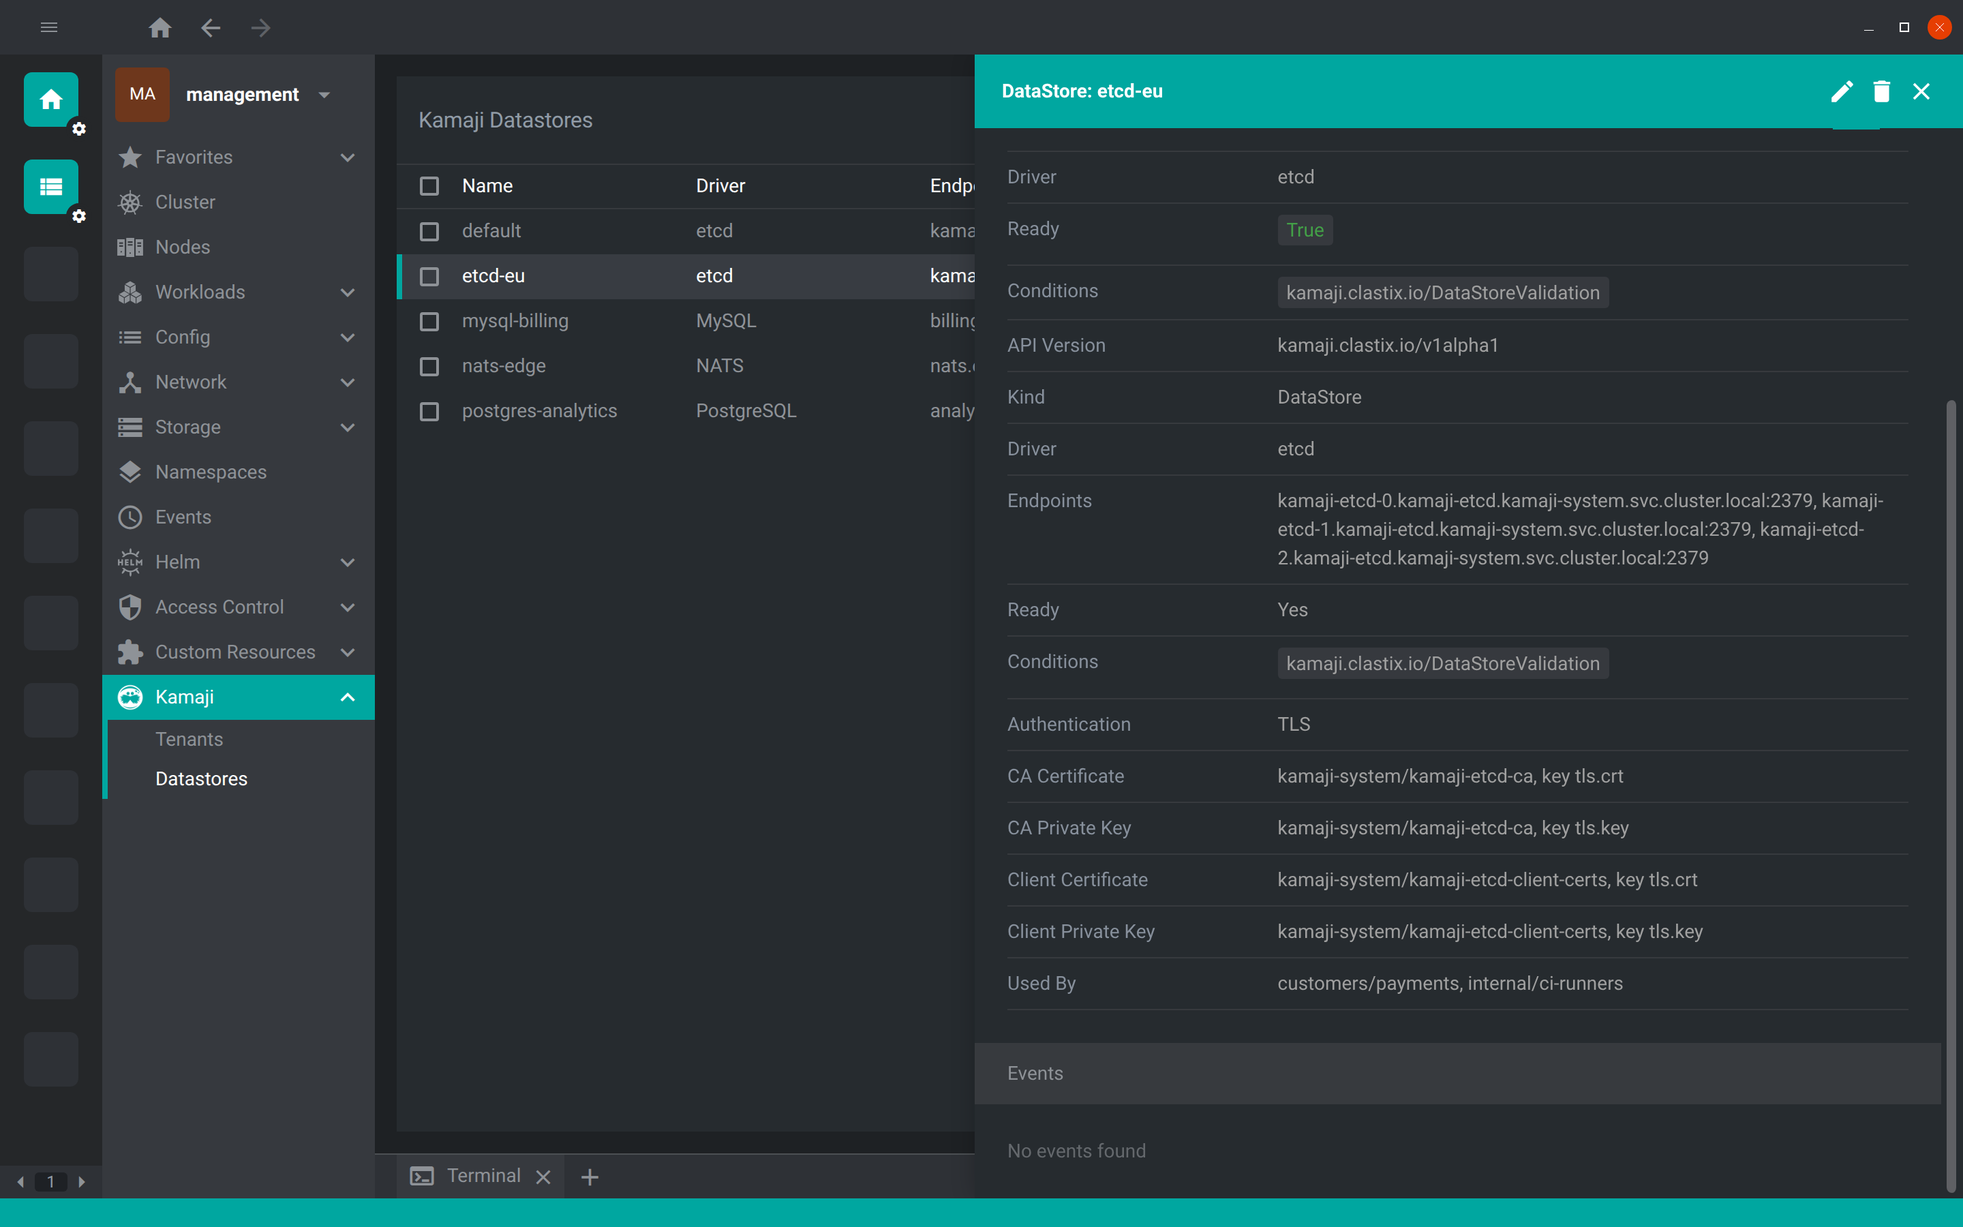
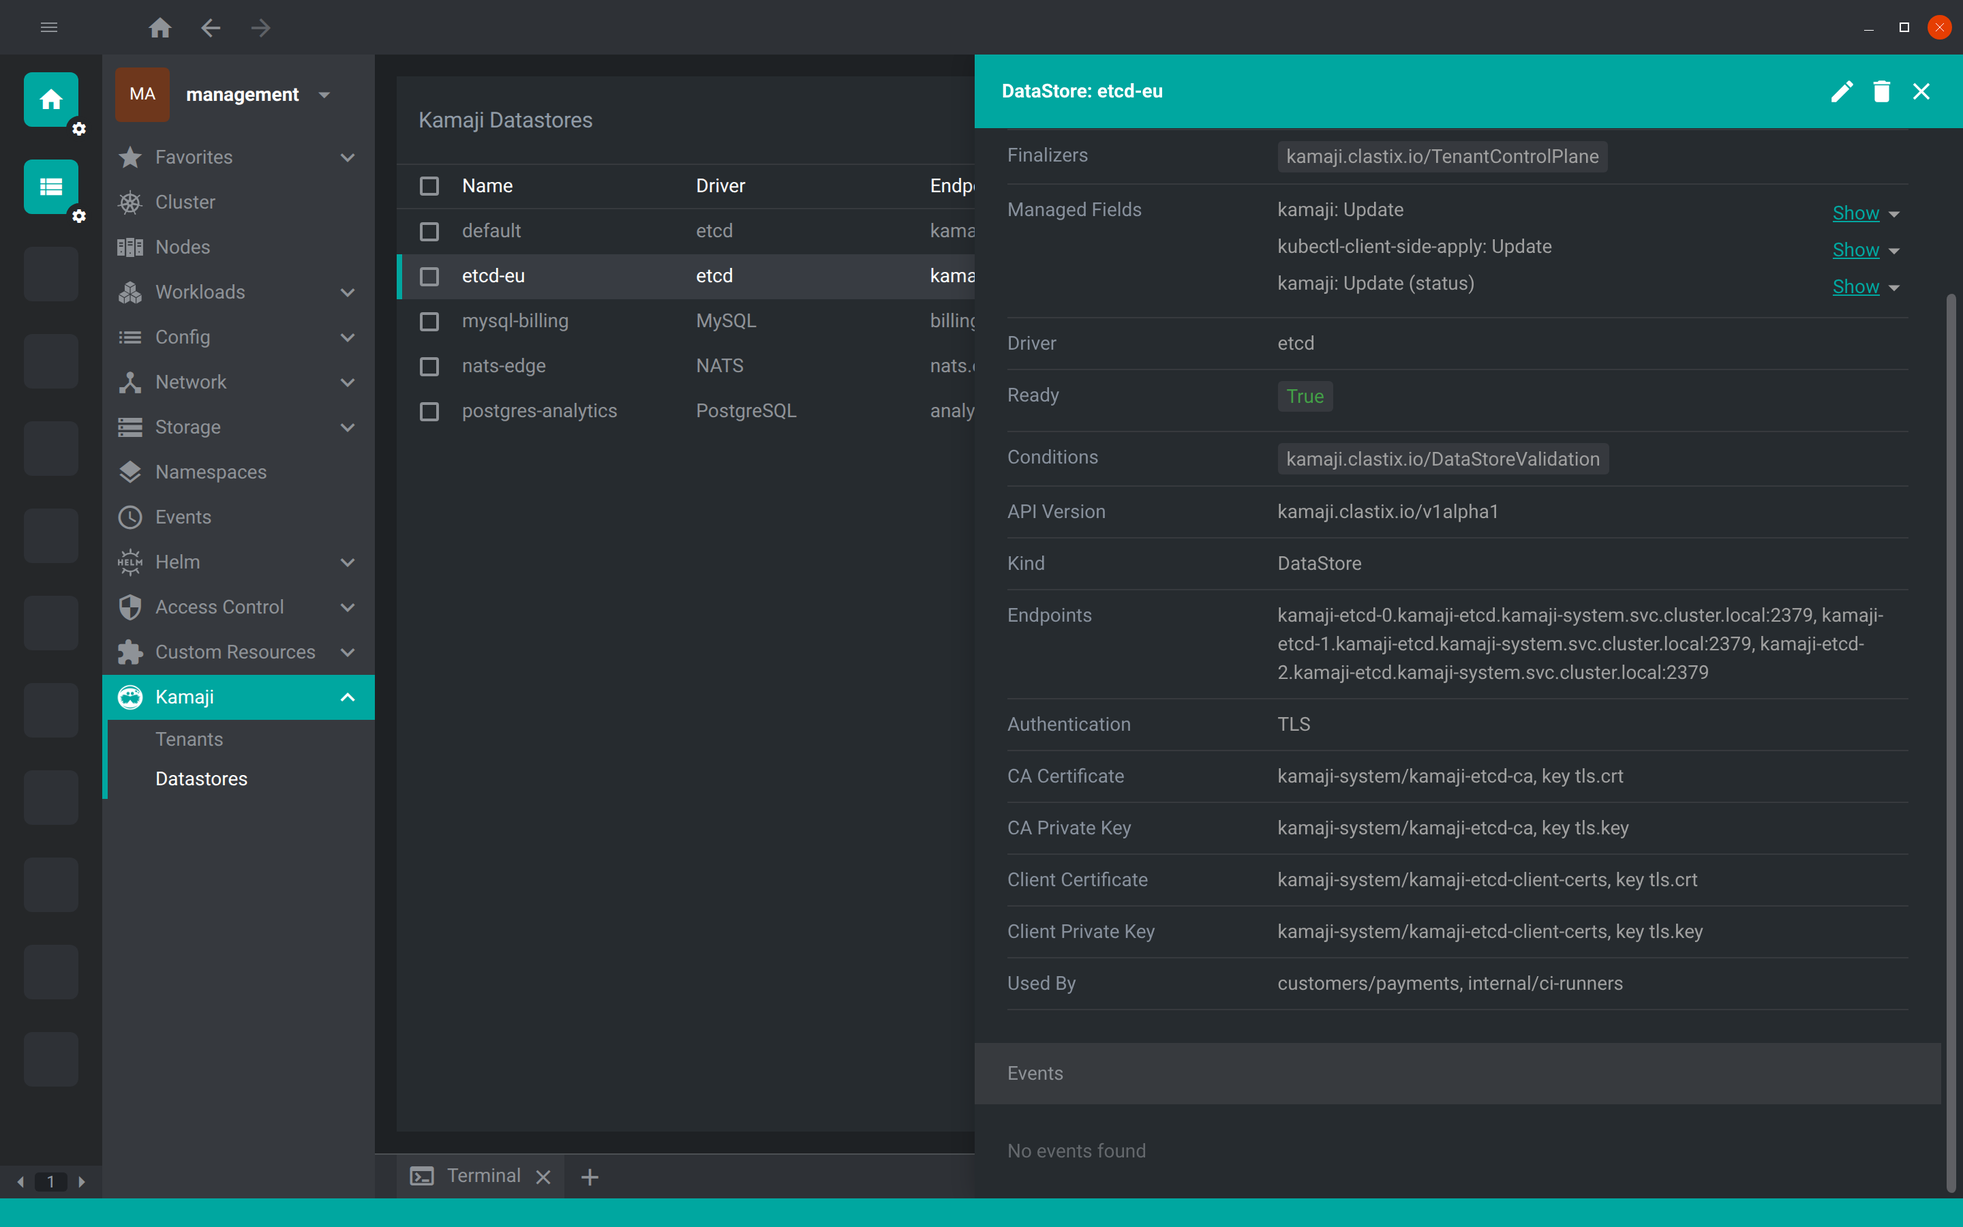
Leave out of the details panels what the drawer of the host already shows (#89)
* Leave out of the details panels what the drawer of the host already shows

The drawer of a custom resource shows the host's own details above the
details panels: an item per printer column of the CRD, when the host has
the CRD, and the conditions under status.conditions. As decided in
freelensapp/freelens#2916, the panels leave those out: Driver and Ready
of a DataStore, and Status, Kubernetes Version, Control Plane Endpoint
and Data Store Name (Status) of a tenant, when the host's store of CRDs
has the CRD of the object, the same check the host makes. A user who may
not list CRDs gets no printer columns from the host, so for that user
the panels keep those rows. The DataStore panel drops its Conditions,
which the host always shows; those of a tenant stay, as they are the
conditions of its Deployment, which the host does not show.

* Retake the screenshots of the two details drawers

Taken on the packaged Freelens 2.0.0 with Kamaji 26.10.5-edge on kind,
as the others in the README. The drawer of a tenant is shown from the
host's printer columns, which now carry its status, version and
endpoint, down to the panel; the drawer of an etcd DataStore shows its
driver, whether Kamaji validated it and its conditions from the host,
and then the panel.

---------

diff --git a/src/renderer/details/tenant-details.tsx b/src/renderer/details/tenant-details.tsx
@@ -6,6 +6,7 @@
 import { Renderer } from "@freelensapp/extensions";
 import { observer } from "mobx-react";
 import { TenantControlPlane } from "../k8s/tenant-control-plane-v1alpha1";
+import { hostShowsPrinterColumns } from "./host-details";
 
 const {
   Component: { Badge, DrawerItem },
@@ -23,12 +24,16 @@ export const TenantDetails = observer(({ object }: TenantDetailsProps) => {
   const endpoint = TenantControlPlane.getEndpoint(object);
   const blockedWrites = TenantControlPlane.getBlockedWrites(object);
   const conditions = TenantControlPlane.getConditions(object);
+  // The drawer of the host shows the printer columns of the CRD above this panel when it has the CRD: Version and
+  // Installed Version, Status, Control-Plane endpoint, Kubeconfig and Datastore. The conditions of the Deployment of the
+  // control plane are not under `status.conditions`, so the host does not show them.
+  const printerColumnsShown = hostShowsPrinterColumns(object);
 
   return (
     <>
       <DrawerItem name="API Version">{object.apiVersion}</DrawerItem>
       <DrawerItem name="Kind">{object.kind}</DrawerItem>
-      <DrawerItem name="Status">
+      <DrawerItem name="Status" hidden={printerColumnsShown}>
         <Badge label={TenantControlPlane.getStatus(object)} />
       </DrawerItem>
       <DrawerItem name="Conditions" hidden={!conditions.length}>
@@ -40,8 +45,10 @@ export const TenantDetails = observer(({ object }: TenantDetailsProps) => {
           />
         ))}
       </DrawerItem>
-      <DrawerItem name="Kubernetes Version">{TenantControlPlane.getKubernetesVersion(object) ?? "-"}</DrawerItem>
-      <DrawerItem name="Control Plane Endpoint" hidden={!endpoint}>
+      <DrawerItem name="Kubernetes Version" hidden={printerColumnsShown}>
+        {TenantControlPlane.getKubernetesVersion(object) ?? "-"}
+      </DrawerItem>
+      <DrawerItem name="Control Plane Endpoint" hidden={printerColumnsShown || !endpoint}>
         <code>{endpoint}</code>
       </DrawerItem>
       <DrawerItem name="Control Plane Replicas">{spec.controlPlane.deployment?.replicas ?? "-"}</DrawerItem>
@@ -68,7 +75,7 @@ export const TenantDetails = observer(({ object }: TenantDetailsProps) => {
       <DrawerItem name="Storage Driver" hidden={!status?.storage?.driver}>
         {status?.storage?.driver}
       </DrawerItem>
-      <DrawerItem name="Data Store Name (Status)" hidden={!status?.storage?.dataStoreName}>
+      <DrawerItem name="Data Store Name (Status)" hidden={printerColumnsShown || !status?.storage?.dataStoreName}>
         {status?.storage?.dataStoreName}
       </DrawerItem>
       <DrawerItem name="Data Store Schema" hidden={!TenantControlPlane.getDataStoreSchema(object)}>

diff --git a/src/renderer/details/tenant-details.test.tsx b/src/renderer/details/tenant-details.test.tsx
@@ -1,7 +1,8 @@
 // @vitest-environment jsdom
 
+import { Renderer } from "@freelensapp/extensions";
 import { cleanup, render, screen } from "@testing-library/react";
-import { afterEach, describe, expect, it } from "vitest";
+import { afterEach, describe, expect, it, vi } from "vitest";
 import { TenantControlPlane } from "../k8s/tenant-control-plane-v1alpha1";
 import { TenantDetails } from "./tenant-details";
 
@@ -29,6 +30,7 @@ const rowValue = (name: string) => screen.getByText(name).parentElement?.textCon
 
 afterEach(() => {
   cleanup();
+  vi.mocked(Renderer.K8sApi.crdStore.getByObject).mockReset();
 });
 
 describe("TenantDetails", () => {
@@ -133,6 +135,48 @@ describe("TenantDetails", () => {
     expect(rowValue("Service CIDRs")).toBe("10.96.0.0/16");
     expect(rowValue("Headless Service")).toBe("Yes");
     expect(rowValue("Write Permissions")).toBe("All allowed");
+  });
+
+  it("leaves the values of the printer columns to the drawer of the host when it has the CRD", () => {
+    const tenant = buildTenant(
+      { dataStore: "etcd-test" },
+      {
+        controlPlaneEndpoint: "172.19.255.200:6443",
+        storage: { driver: "etcd", dataStoreName: "etcd-test" },
+        kubernetesResources: {
+          version: { version: "v1.36.3", status: "Ready" },
+          deployment: {
+            name: "shop",
+            namespace: "kamaji-tenants",
+            selector: "app=shop",
+            replicas: 1,
+            readyReplicas: 1,
+            conditions: [
+              {
+                type: "Available",
+                status: "True",
+                lastTransitionTime: "",
+                lastUpdateTime: "",
+                reason: "MinimumReplicasAvailable",
+                message: "",
+              },
+            ],
+          },
+        },
+      },
+    );
+
+    vi.mocked(Renderer.K8sApi.crdStore.getByObject).mockReturnValue({} as never);
+    render(<TenantDetails object={tenant} />);
+
+    expect(Renderer.K8sApi.crdStore.getByObject).toHaveBeenCalledWith(tenant);
+    for (const hidden of ["Status", "Kubernetes Version", "Control Plane Endpoint", "Data Store Name (Status)"]) {
+      expect(screen.queryByText(hidden)).toBeNull();
+    }
+    // The conditions of the Deployment of the control plane, which the host does not show, and the rest of the panel.
+    expect(rowValue("Conditions")).toBe("Available");
+    expect(rowValue("Data Store")).toBe("etcd-test");
+    expect(rowValue("Storage Driver")).toBe("etcd");
   });
 
   it("says that Konnectivity is disabled when Kamaji reports so", () => {

diff --git a/src/renderer/details/datastore-details.tsx b/src/renderer/details/datastore-details.tsx
@@ -6,11 +6,12 @@
 import { Renderer } from "@freelensapp/extensions";
 import { observer } from "mobx-react";
 import { DataStore } from "../k8s/datastore-v1alpha1";
+import { hostShowsPrinterColumns } from "./host-details";
 
 import type { ContentRef } from "../k8s/datastore-v1alpha1";
 
 const {
-  Component: { Badge, DrawerItem },
+  Component: { DrawerItem },
 } = Renderer;
 
 export type DataStoreDetailsProps = Renderer.Component.KubeObjectDetailsProps<DataStore>;
@@ -34,7 +35,9 @@ export const DataStoreDetails = observer(({ object }: DataStoreDetailsProps) => 
   const { tlsConfig, basicAuth } = object.spec;
   const ready = DataStore.isReady(object);
   const usedBy = DataStore.getUsedBy(object);
-  const conditions = DataStore.getConditions(object);
+  // The drawer of the host shows the printer columns of the CRD, Driver and Ready, when it has the CRD, and always the
+  // conditions under `status.conditions`, above this panel.
+  const printerColumnsShown = hostShowsPrinterColumns(object);
   const contentRow = (name: string, ref: ContentRef | undefined) => (
     <DrawerItem name={name} hidden={!describeContent(ref)}>
       {describeContent(ref)}
@@ -45,19 +48,12 @@ export const DataStoreDetails = observer(({ object }: DataStoreDetailsProps) => 
     <>
       <DrawerItem name="API Version">{object.apiVersion}</DrawerItem>
       <DrawerItem name="Kind">{object.kind}</DrawerItem>
-      <DrawerItem name="Driver">{object.spec.driver}</DrawerItem>
-      <DrawerItem name="Endpoints">{object.spec.endpoints.join(", ") || "-"}</DrawerItem>
-      <DrawerItem name="Ready" hidden={ready === undefined}>
-        {ready ? "Yes" : "No"}
+      <DrawerItem name="Driver" hidden={printerColumnsShown}>
+        {object.spec.driver}
       </DrawerItem>
-      <DrawerItem name="Conditions" hidden={!conditions.length}>
-        {conditions.map((condition) => (
-          <Badge
-            key={condition.type}
-            label={condition.status === "True" ? condition.type : `${condition.type}: ${condition.status}`}
-            title={condition.message || condition.reason}
-          />
-        ))}
+      <DrawerItem name="Endpoints">{object.spec.endpoints.join(", ") || "-"}</DrawerItem>
+      <DrawerItem name="Ready" hidden={printerColumnsShown || ready === undefined}>
+        {ready ? "Yes" : "No"}
       </DrawerItem>
       <DrawerItem name="Authentication">{DataStore.getAuthentication(object) ?? "-"}</DrawerItem>
       {contentRow("CA Certificate", tlsConfig?.certificateAuthority.certificate)}

diff --git a/src/renderer/details/datastore-details.test.tsx b/src/renderer/details/datastore-details.test.tsx
@@ -1,7 +1,8 @@
 // @vitest-environment jsdom
 
+import { Renderer } from "@freelensapp/extensions";
 import { cleanup, render, screen } from "@testing-library/react";
-import { afterEach, describe, expect, it } from "vitest";
+import { afterEach, describe, expect, it, vi } from "vitest";
 import { DataStore } from "../k8s/datastore-v1alpha1";
 import { DataStoreDetails, describeContent } from "./datastore-details";
 
@@ -23,6 +24,7 @@ const rowValue = (name: string) => screen.getByText(name).parentElement?.textCon
 
 afterEach(() => {
   cleanup();
+  vi.mocked(Renderer.K8sApi.crdStore.getByObject).mockReset();
 });
 
 describe("describeContent", () => {
@@ -80,5 +82,33 @@ describe("DataStoreDetails", () => {
     expect(rowValue("Used By")).toBe("-");
     expect(screen.queryByText("Ready")).toBeNull();
     expect(screen.queryByText("CA Certificate")).toBeNull();
+  });
+
+  it("leaves Driver and Ready to the drawer of the host when it has the CRD, and the conditions always", () => {
+    const dataStore = buildDataStore(
+      { driver: "etcd", endpoints: ["etcd-0:2379"] },
+      {
+        ready: true,
+        usedBy: [],
+        conditions: [{ type: "Ready", status: "True", reason: "DataStoreReady", message: "", lastTransitionTime: "" }],
+      },
+    );
+
+    // A user who may not list CRDs: the host has no printer columns to show, so the panel keeps them.
+    const { unmount } = render(<DataStoreDetails object={dataStore} />);
+
+    expect(rowValue("Driver")).toBe("etcd");
+    expect(rowValue("Ready")).toBe("Yes");
+    expect(screen.queryByText("Conditions")).toBeNull();
+    unmount();
+
+    vi.mocked(Renderer.K8sApi.crdStore.getByObject).mockReturnValue({} as never);
+    render(<DataStoreDetails object={dataStore} />);
+
+    expect(Renderer.K8sApi.crdStore.getByObject).toHaveBeenCalledWith(dataStore);
+    expect(screen.queryByText("Driver")).toBeNull();
+    expect(screen.queryByText("Ready")).toBeNull();
+    expect(screen.queryByText("Conditions")).toBeNull();
+    expect(rowValue("Endpoints")).toBe("etcd-0:2379");
   });
 });

diff --git a/integration/__tests__/extension-helpers.ts b/integration/__tests__/extension-helpers.ts
@@ -850,6 +850,26 @@ export async function detailsValue(frame: Frame, details: Locator, name: string)
   );
 }
 
+/** How many items with the name the extension's details panel shows, without waiting for one. */
+export async function detailsItemCount(frame: Frame, details: Locator, name: string): Promise<number> {
+  return details
+    .locator(".DrawerItem:not(.CustomResourceDetails .DrawerItem)")
+    .filter({ has: frame.locator(".name").getByText(name, { exact: true }) })
+    .count();
+}
+
+/**
+ * The value of the item with the name in the host's own details of the custom resource, `CustomResourceDetails`, which
+ * has an item per printer column of the CRD, named as `startCase` names the column, when the host has the CRD.
+ */
+export async function hostDetailsValue(frame: Frame, details: Locator, name: string): Promise<string | null> {
+  return details
+    .locator(".CustomResourceDetails .DrawerItem")
+    .filter({ has: frame.locator(".name").getByText(name, { exact: true }) })
+    .locator(":scope > .value")
+    .textContent(viewTimeout);
+}
+
 /**
  * Opens the context menu of the row and returns the menu, which the host
  * renders outside the row.

diff --git a/integration/__tests__/tenants.tests.ts b/integration/__tests__/tenants.tests.ts
@@ -13,10 +13,12 @@ import { afterAll, beforeAll, describe, expect, it } from "vitest";
 import {
   appReady,
   connectApp,
+  detailsItemCount,
   detailsValue,
   disconnectKindCluster,
   findMenuItem,
   findRow,
+  hostDetailsValue,
   installExtension,
   keepSavedFiles,
   openDetails,
@@ -98,7 +100,11 @@ describe.skipIf(!(await appReady({ cluster: true })))("Tenant Control Planes", (
 
     const billing = await openDetails(frame, await findRow(frame, "billing"), "billing");
 
-    expect(await detailsValue(frame, billing, "Status")).toBe("Provisioning");
+    // The session's user lists the CRDs, so the host shows the printer columns above the panel, which leaves them out.
+    expect(await hostDetailsValue(frame, billing, "Status")).toBe("Provisioning");
+    for (const name of ["Status", "Kubernetes Version", "Data Store Name (Status)"]) {
+      expect(await detailsItemCount(frame, billing, name)).toBe(0);
+    }
     expect(await detailsValue(frame, billing, "Pod CIDRs")).toBe("10.245.0.0/16, fd00:10:245::/56");
     expect(await detailsValue(frame, billing, "IP Families")).toBe("IPv4, IPv6");
 

diff --git a/integration/__tests__/datastores.tests.ts b/integration/__tests__/datastores.tests.ts
@@ -11,9 +11,11 @@ import { afterAll, beforeAll, describe, expect, it } from "vitest";
 import {
   appReady,
   connectApp,
+  detailsItemCount,
   detailsValue,
   disconnectKindCluster,
   findRow,
+  hostDetailsValue,
   installExtension,
   openDetails,
   openKindCluster,
@@ -88,6 +90,11 @@ describe.skipIf(!(await appReady({ cluster: true })))("DataStores", () => {
     expect(await detailsValue(frame, etcd, "Authentication")).toBe("TLS");
     expect(await detailsValue(frame, etcd, "CA Private Key")).toBe("kamaji-system/etcd-test-certs, key ca.key");
     expect(await detailsValue(frame, etcd, "Used By")).toBe("kamaji-tenants/shop");
+    // The session's user lists the CRDs, so the host shows Driver and Ready above the panel, which leaves them out.
+    expect(await hostDetailsValue(frame, etcd, "Driver")).toBe("etcd");
+    for (const name of ["Driver", "Ready", "Conditions"]) {
+      expect(await detailsItemCount(frame, etcd, name)).toBe(0);
+    }
 
     await openPage(frame, "datastores");
 

diff --git a/src/renderer/details/host-details.ts b/src/renderer/details/host-details.ts
@@ -1,0 +1,15 @@
+/**
+ * Copyright (c) Freelens Authors. All rights reserved.
+ * Licensed under MIT License. See LICENSE in root directory for more information.
+ */
+
+import { Renderer } from "@freelensapp/extensions";
+
+/**
+ * Whether the drawer of the host shows the printer columns of the object's CRD above the details panel. It does when
+ * its store of CRDs has the definition, which a user who may not list CRDs does not get; the host decides the same way,
+ * with `getByObject` of the same store. A details panel that reads it is an `observer`, so it follows the store.
+ */
+export function hostShowsPrinterColumns(object: Renderer.K8sApi.KubeObject): boolean {
+  return Boolean(Renderer.K8sApi.crdStore.getByObject(object));
+}

diff --git a/test/freelens-extensions.ts b/test/freelens-extensions.ts
@@ -109,6 +109,11 @@ export const Renderer = {
     secretsApi: {
       get: vi.fn(),
     },
+    // The host's store of CRDs, which has no CRD until a test says so: then the drawer of the host shows the printer
+    // columns of the object's CRD.
+    crdStore: {
+      getByObject: vi.fn(() => undefined),
+    },
   },
 };
 

diff --git a/AGENTS.md b/AGENTS.md
@@ -198,11 +198,24 @@ those of the Deployment of the control plane, the only ones that Kamaji reports,
 as badges with their message as title.
 
 The details panel of a DataStore shows its driver and endpoints, whether Kamaji
-validated it, with its conditions, how Kamaji authenticates to it, and where
-each value of its TLS configuration and basic auth comes from: inline content,
-which takes precedence in Kamaji, or a key of a Secret. It never shows the
-values themselves. The tenants that use the DataStore are listed as Kamaji
-reports them, as `<namespace>/<name>`.
+validated it, how Kamaji authenticates to it, and where each value of its TLS
+configuration and basic auth comes from: inline content, which takes
+precedence in Kamaji, or a key of a Secret. It never shows the values
+themselves. The tenants that use the DataStore are listed as Kamaji reports
+them, as `<namespace>/<name>`.
+
+Above both panels the drawer of the host shows its own details of a custom
+resource: an item per printer column of the CRD, when it has the CRD, and the
+conditions under `status.conditions`. The panels leave out what it shows
+(freelensapp/freelens#2916). `hostShowsPrinterColumns` in
+`details/host-details.ts` asks the host's store of CRDs,
+`Renderer.K8sApi.crdStore`, the way the host does, and the panels hide the
+rows of the printer columns when it has the CRD: Status, Kubernetes Version,
+Control Plane Endpoint and Data Store Name (Status) of a tenant, Driver and
+Ready of a DataStore. A user who may not list CRDs gets no printer columns from
+the host, and the panels keep those rows. The DataStore panel has no
+Conditions row, since the host always shows them; the Conditions of a tenant
+stay, as they are those of its Deployment, which the host does not show.
 
 Each page reads its store from its model's `getStore()`, which throws while the
 cluster serves no such kind, with a message that says the API or the store is

diff --git a/README.md b/README.md
@@ -69,7 +69,9 @@ For each Tenant Control Plane of the selected namespaces:
 
 ![The details of a dual-stack tenant: its status, the conditions of its Deployment, its CIDR lists and its datastore, dark theme](assets/screenshots/tenant-details-dark.png)
 
-- status, Kubernetes version, endpoint, replicas and ready pods
+- status, Kubernetes version and endpoint, which Freelens shows from the CRD
+  above the panel; for a user who may not list CRDs, the panel shows them
+- replicas and ready pods
 - the conditions of the Deployment of the control plane
 - the type of the Service of the control plane, and its IP family policy and
   families when the tenant sets them
@@ -112,8 +114,10 @@ For each DataStore:
 
 ![The details of an etcd DataStore: its endpoints, the source of each value of its TLS configuration, and its two tenants, dark theme](assets/screenshots/datastore-details-dark.png)
 
-- driver and endpoints
-- whether Kamaji validated it, with its conditions
+- driver, whether Kamaji validated it and its conditions, which Freelens shows
+  from the CRD above the panel; for a user who may not list CRDs, the panel
+  shows the driver and whether Kamaji validated it
+- endpoints
 - how Kamaji authenticates to it, and where each value of its TLS
   configuration and basic auth comes from: inline, or a key of a Secret. The
   values themselves are never shown.
